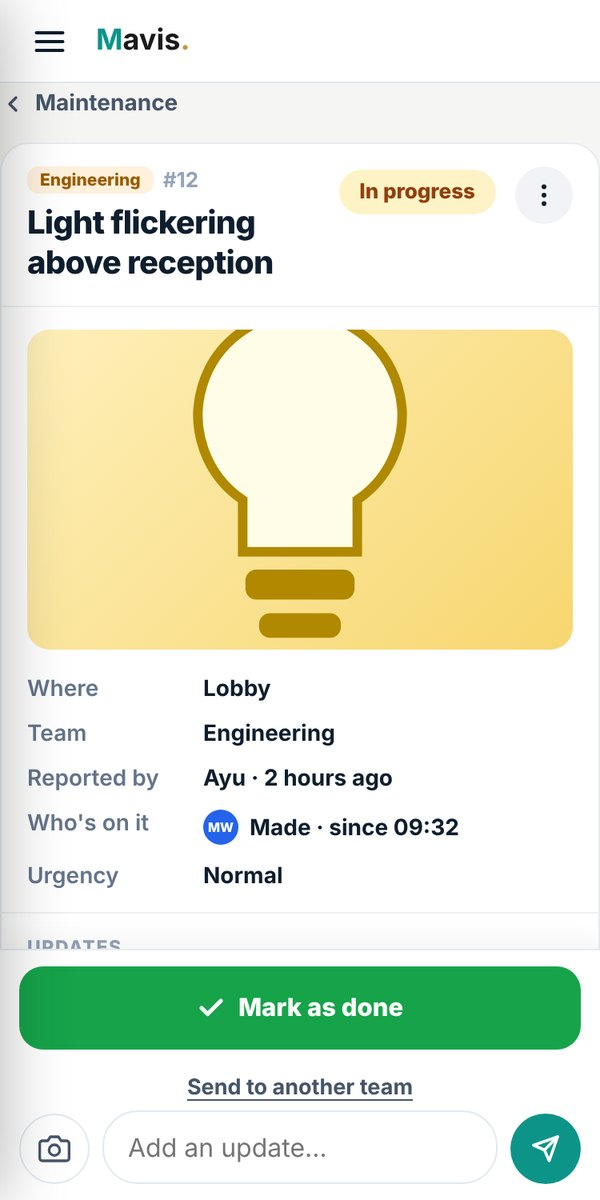
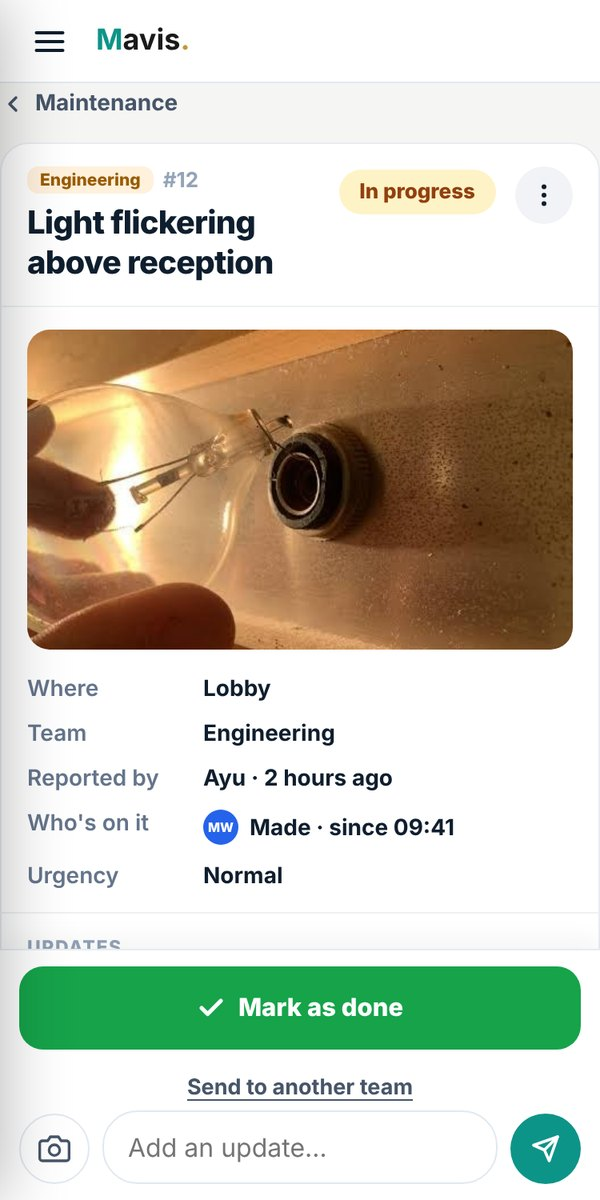
Maintenance: real photo on the job instead of the drawing
Claude-Session: https://claude.ai/code/session_01PDrfwPm1ywymGCuyADBdVM

Changed region(s): [[0.03, 0.2467, 0.96, 0.555], [0.72, 0.6783, 0.78, 0.7092]]

diff --git a/index.html b/index.html
@@ -381,8 +381,8 @@ h2{font-size:clamp(32px,4.6vw,54px);line-height:1.04;letter-spacing:-1.6px;font-
     </ul>
   </div>
   <div class="phones two">
-    <div><div class="phone"><img src="/img/maint-list.jpg" alt="Maintenance list: to sort, waiting and in progress" loading="lazy"></div><span class="cap">Everything in one list</span></div>
-    <div><div class="phone"><img src="/img/maint-detail.jpg" alt="A request with who's on it" loading="lazy"></div><span class="cap">Who's on it</span></div>
+    <div><div class="phone"><img src="/img/maint-list.jpg?v=2" alt="Maintenance list: to sort, waiting and in progress" loading="lazy"></div><span class="cap">Everything in one list</span></div>
+    <div><div class="phone"><img src="/img/maint-detail.jpg?v=2" alt="A request with who's on it" loading="lazy"></div><span class="cap">Who's on it</span></div>
   </div>
 </div></section>
 
